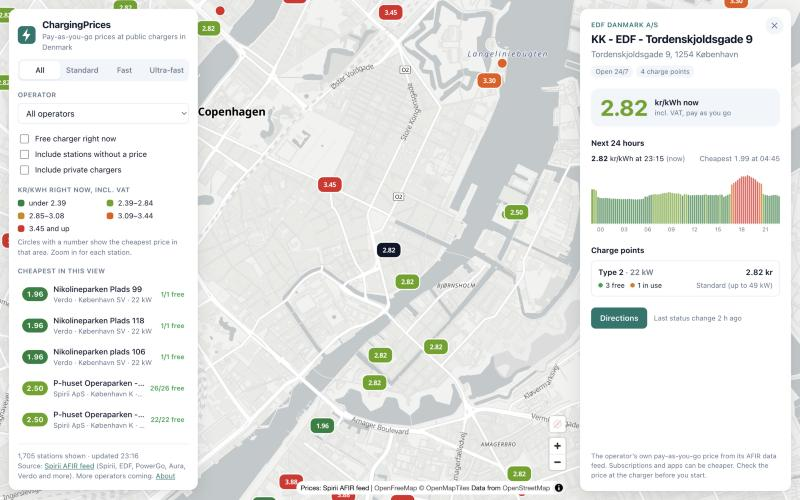
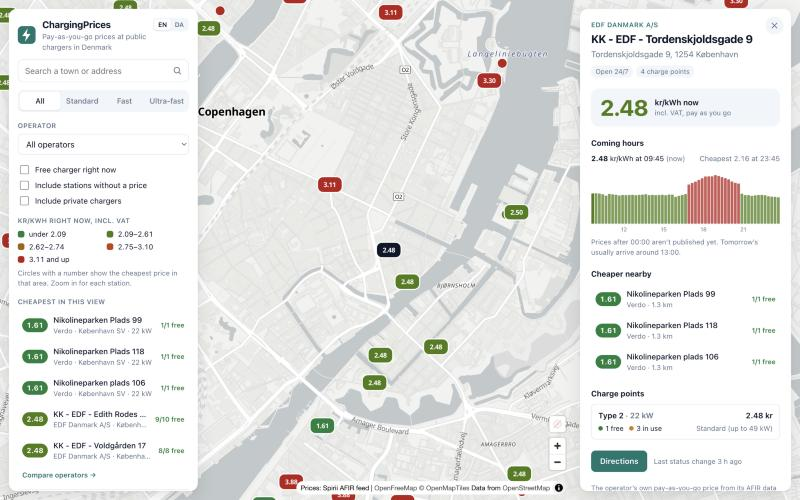
docs: update README, CLAUDE.md and data notes; add ADR 0005
- README: all current features, Docker instructions, the full API
  including place search and health, a new screenshot
- CLAUDE.md: layout with places/ and i18n/, Docker command, the
  published-horizon rule for price curves, translation rule, more
  Spring Boot 4 gotchas
- data-sources.md: fee windows and when tomorrow's prices arrive
- ADR 0005: place search through a back-end proxy to Nominatim

diff --git a/README.md b/README.md
@@ -4,9 +4,9 @@ A map of public EV charging stations in Denmark that shows what each one costs p
 
 ![CI](https://github.com/zipel/ChargingPrices/actions/workflows/ci.yml/badge.svg)
 
-> **Status:** phase 1 works locally. Live prices for about 2,300 sites from 21 operators, refreshed every 2 minutes. See the [roadmap](#roadmap).
+> **Status:** phase 1 works locally and in Docker. Live prices for about 2,300 sites from 21 operators, refreshed every 2 minutes. Not online yet. See the [roadmap](#roadmap).
 
-![The map, with the cheapest stations listed on the left and a station's 24-hour price curve on the right](docs/screenshot.png)
+![The map of Copenhagen with price labels, the cheapest stations listed on the left, and a station's price curve on the right](docs/screenshot.png)
 
 ## The problem
 
@@ -20,16 +20,26 @@ ChargingPrices reads those feeds, maps them into one common model and shows the 
 
 ## What it does
 
-- A map of Denmark with sites coloured by their current price per kWh, from cheapest (green) to most expensive (red). The colour bands follow today's actual spread of prices.
+**On the map**
+- Sites coloured by their current price per kWh, from cheapest (green) to most expensive (red). The colour bands follow today's actual spread of prices.
 - Clusters show the cheapest price in their area. From zoom level 11, every site shows its price as a label.
 - Filters for charging speed (standard, fast, ultra-fast), operator and "free charger right now".
+- Search for a town or an address.
 - A list of the five cheapest stations in the visible part of the map.
-- A station panel with the price now, a 24-hour price curve in 15-minute steps, each charge point's connector, power and live status, start fees and parking fees, and a link for directions.
+
+**For each station**
+- The price now, and a price curve for the coming hours in 15-minute steps. For dynamic prices the curve stops where the operator's published prices end; tomorrow's usually arrive around 13:00.
+- Up to three cheaper stations within 3 km.
+- Each charge point's connector, power and live status, plus start fees and parking fees with the times they apply.
+- A shareable link (`#site=...`) and a link for directions.
+
+**Also**
+- "Compare operators": operators ranked by their median price right now, at the selected charging speed.
+- English and Danish, including Danish number and time formats.
 - A mobile layout with collapsible filters and a bottom sheet.
+- Accessible colours (WCAG AA contrast on every price label), visible keyboard focus, and no map animations when the system asks for reduced motion.
 
-Prices are each operator's ad hoc price: pay as you go, VAT included. Subscriptions such as Clever One or Norlys member discounts can be cheaper and are out of scope.
-
-Sites whose name says they're private (e.g. "(Privat)", "Kun for beboere", "employee only") are hidden by default and can be shown with a filter.
+Prices are each operator's ad hoc price: pay as you go, VAT included. Subscriptions such as Clever One or Norlys member discounts can be cheaper and are out of scope. Sites whose name says they're private (e.g. "(Privat)", "Kun for beboere") are hidden by default.
 
 ## Data sources
 
@@ -60,7 +70,7 @@ cd backend
 ./gradlew bootRun
 ```
 
-On Windows, use `gradlew.bat bootRun`. The first full load of the feed takes about half a minute.
+On Windows, use `gradlew.bat bootRun`. The first full load of the feed takes about a minute.
 
 **2. The web app** (UI on <http://localhost:5173>):
 
@@ -72,6 +82,17 @@ npm run dev
 
 Then open <http://localhost:5173>. Vite forwards `/api` calls to the back end.
 
+### With Docker
+
+One image holds both: Spring Boot serves the built web app on port 8080.
+
+```bash
+docker build -t chargingprices .
+docker run -p 8080:8080 chargingprices
+```
+
+Then open <http://localhost:8080>.
+
 ### Tests
 
 ```bash
@@ -79,15 +100,17 @@ cd backend && ./gradlew test
 cd web && npm test
 ```
 
-The back-end tests run on a real three-site sample of the Spirii feed and never call the internet.
+The back-end tests run on a real three-site sample of the Spirii feed and never call the internet. CI also builds the Docker image and smoke-tests it.
 
 ## API
 
 | Endpoint | Returns |
 |---|---|
 | `GET /api/sites` | Every site with its current price, overall and per speed class |
-| `GET /api/sites/{id}` | One site: charge points, status, fees and the 24-hour price curve |
+| `GET /api/sites/{id}` | One site: charge points, status, fees and the price curve |
 | `GET /api/meta` | Operators, data sources and when the data was last refreshed |
+| `GET /api/places?q=...` | Towns and addresses in Denmark, via OpenStreetMap's Nominatim ([why a proxy](docs/decisions/0005-place-search.md)) |
+| `GET /actuator/health` | UP while the feed data is fresh, DOWN when it's older than 10 minutes |
 
 ## Architecture
 
@@ -97,8 +120,8 @@ Spirii AFIR feed (DATEX II, one request per operator, ETag caching)
         v
 DatexParser  -->  Site / ChargePoint / Tariff  -->  SiteStore (in memory)
                                                         |
-                                    REST API (Spring Boot), prices worked out per request
-                                                        |
+                    REST API (Spring Boot), prices worked out per request      Nominatim (place search,
+                                                        |                       cached, 1 request/second)
                                        Web app (React + MapLibre), filters in the browser
 ```
 
@@ -106,17 +129,17 @@ DatexParser  -->  Site / ChargePoint / Tariff  -->  SiteStore (in memory)
 
 - **Back end:** Java 25, Spring Boot 4.1, Gradle
 - **Storage:** in memory for phase 1 ([why](docs/decisions/0003-in-memory-snapshot.md)); PostgreSQL with PostGIS when price history arrives
+- **Front end:** React 19, TypeScript, Vite, MapLibre GL JS with [OpenFreeMap](https://openfreemap.org/) tiles ([why](docs/decisions/0004-map-tiles.md)), i18next
 - **Tests:** JUnit 5 and AssertJ on the back end, Vitest on the front end
-- **Front end:** React 19, TypeScript, Vite, MapLibre GL JS with [OpenFreeMap](https://openfreemap.org/) tiles ([why](docs/decisions/0004-map-tiles.md))
-- **CI:** GitHub Actions
+- **Delivery:** a Docker image, GitHub Actions CI
 
 All decisions are in [docs/decisions](docs/decisions).
 
 ## Roadmap
 
-1. ~~**One feed end to end.** Fetch the Spirii feed, keep it fresh, serve it through the API and show it on the map.~~ Done.
+1. ~~**One feed end to end.** Fetch the Spirii feed, keep it fresh, serve it through the API and show it on the map.~~ Done, with search, operator comparison, Danish and a Docker image on top.
 2. **More operators.** Add Monta, Eco-Movement and OK, plus E.ON if access is granted. Merge stations that appear in more than one feed, using their EVSE IDs.
-3. **Prices over time.** Keep price history in PostgreSQL, show "best time to charge today" and put a public demo online.
+3. **Online and over time.** Put a public demo online, keep price history in PostgreSQL and show "best time to charge today".
 4. **Later.** An assistant for questions like "cheapest charge on my way to Aarhus before 18:00", and a phone app (PWA first).
 
 ## How it's built
@@ -125,7 +148,7 @@ Built with [Claude Code](https://claude.com/claude-code) as a coding assistant. 
 
 ## Data, attribution and disclaimer
 
-The charging data belongs to the operators and is published under AFIR. Map data © OpenStreetMap contributors, tiles by OpenFreeMap and OpenMapTiles. ChargingPrices isn't affiliated with any operator. Prices can change at short notice, so always check the price at the charger or in the operator's app before you charge.
+The charging data belongs to the operators and is published under AFIR. Map data and place search © OpenStreetMap contributors, tiles by OpenFreeMap and OpenMapTiles. ChargingPrices isn't affiliated with any operator. Prices can change at short notice, so always check the price at the charger or in the operator's app before you charge.
 
 ## Licence
 

diff --git a/CLAUDE.md b/CLAUDE.md
@@ -22,7 +22,7 @@ Owner: Dimos Zikos (GitHub `zipel`). Dimos works in VS Code with Claude Code, on
 
 ## Stack
 
-Java 25, Spring Boot 4.1, Gradle (Kotlin DSL) · in-memory store for phase 1 (PostgreSQL + PostGIS later) · JUnit 5, AssertJ · React 19, TypeScript, Vite, MapLibre GL JS with OpenFreeMap tiles · Vitest · GitHub Actions. The reasons are in `docs/decisions/`.
+Java 25, Spring Boot 4.1, Gradle (Kotlin DSL) · in-memory store for phase 1 (PostgreSQL + PostGIS later) · JUnit 5, AssertJ · React 19, TypeScript, Vite, MapLibre GL JS with OpenFreeMap tiles, i18next (English and Danish) · Vitest · Docker · GitHub Actions. The reasons are in `docs/decisions/`.
 
 ## Layout
 
@@ -30,13 +30,17 @@ Java 25, Spring Boot 4.1, Gradle (Kotlin DSL) · in-memory store for phase 1 (Po
 backend/              Spring Boot app
   feed/spirii/        fetches Spirii's public AFIR feed per operator (cpoId), with ETags
   feed/datex/         maps DATEX II JSON to the domain model
-  domain/             Site, ChargePoint, Tariff (price at a given local time), SpeedClass
+  feed/               FeedStatus and the feed health check for /actuator/health
+  domain/             Site, ChargePoint, Tariff (price at a given local time), SpeedClass, SiteAccess
   store/              SiteStore: the latest snapshot, in memory
+  places/             place search through Nominatim (cache, 1 request/second)
   api/                REST controller and the JSON views
 web/                  React app
-  src/components/     MapView, FilterPanel, StationPanel, PriceChart
-  src/lib/            price colours and formatting, filtering
-docs/                 data sources, decisions (ADRs)
+  src/components/     MapView, FilterPanel, StationPanel, PriceChart, PlaceSearch, OperatorComparison
+  src/lib/            price colours and formatting, filtering, distances, operator stats
+  src/i18n/           en.ts and da.ts with every UI text
+docs/                 data sources, decisions (ADRs), the README screenshot
+Dockerfile            builds the web app into the Spring Boot jar; one image on port 8080
 ```
 
 ## Commands
@@ -47,6 +51,7 @@ docs/                 data sources, decisions (ADRs)
 | Back-end tests | `backend/` | `./gradlew test` |
 | Run the UI on :5173 | `web/` | `npm install`, then `npm run dev` |
 | Front-end tests, lint, build | `web/` | `npm test`, `npm run lint`, `npm run build` |
+| Everything in one image on :8080 | repo root | `docker build -t chargingprices .`, then `docker run -p 8080:8080 chargingprices` |
 
 The UI needs the API running. Vite forwards `/api` to `localhost:8080`.
 
@@ -56,11 +61,15 @@ The UI needs the API running. Vite forwards `/api` to `localhost:8080`.
 - **EVSE ID** (e.g. `DK.SPI.Z507*1`) is the stable key for a charge point across feeds.
 - **Price** = the ad hoc price, VAT included, in DKK. See the Javadoc on `Tariff` and `TariffParser` for how the time windows work.
 - **Spirii's feed** returns at most 1,000 sites per request, so it's fetched one operator (`cpoId`) at a time. The list is in `application.yml`.
+- **Dynamic prices are published about a day ahead.** The price curve stops where the published slots end; it never shows the fallback price as a forecast.
+- **UI texts:** every visible string goes in both `web/src/i18n/en.ts` and `da.ts`. The `Translations` type makes the build fail if Danish is missing a key, and `t('...')` keys are checked too.
 
 ## Gotchas (learned the hard way)
 
 - **Spring Boot 4 uses Jackson 3.** Packages are `tools.jackson.databind.*`, not `com.fasterxml.jackson.databind.*`, and `JsonNode` uses `isString()` and `stringValue()`.
-- **Spring Boot 4 has no `RestClient.Builder` bean** without the `spring-boot-starter-restclient` module. `SpiriiClient` builds its own with `RestClient.builder()`.
+- **Spring Boot 4 has no `RestClient.Builder` bean** without the `spring-boot-starter-restclient` module. `SpiriiClient` and `NominatimClient` build their own with `RestClient.builder()`.
+- **Spring Boot 4 moved the health API** to `org.springframework.boot.health.contributor` (`Health`, `HealthIndicator`, `Status`).
+- **Test slices moved too:** `@WebMvcTest` is in `org.springframework.boot.webmvc.test.autoconfigure`, and `MockMvcTester` gives AssertJ-style checks.
 - **Spirii always gzips**, even without `Accept-Encoding`. `SpiriiClient` checks the gzip magic bytes.
 - **MapLibre 6 needs its worker URL set** (`setWorkerUrl` with a `?url` import in `MapView.tsx`), or the map stays blank in production builds.
 - **MapLibre's CSS sets `.maplibregl-map { position: relative }`.** The full-screen rule for the map container must be more specific (`.app > .map`), or the map gets zero height.

diff --git a/docs/decisions/0005-place-search.md b/docs/decisions/0005-place-search.md
@@ -1,0 +1,30 @@
+# 5. Place search through a back-end proxy to Nominatim
+
+- **Status:** accepted
+- **Date:** 2026-10-23
+
+## Context
+
+People look for chargers near a town or an address, not near map coordinates, so the app needs a search box. The search must be free, need no account, and cover Danish addresses.
+
+## Decision
+
+Use OpenStreetMap's **Nominatim** geocoder, called by the back end (`GET /api/places?q=...`), never directly from the browser.
+
+Nominatim is free but has a [usage policy](https://operations.osmfoundation.org/policies/nominatim/): identify the app, send at most one request per second, and cache results. Going through the back end lets the app follow it:
+
+- `NominatimClient` sends a User-Agent with the app name and the repository URL, and limits results to Denmark.
+- `PlaceService` caches results (500 entries, least recently used dropped first) and lets one request through per second. At most 3 searches wait their turn; more get `429 Too Many Requests` rather than tying up server threads.
+- The UI searches when the user presses Enter, not on every keystroke.
+- Geocoder failures answer `503` and aren't cached.
+
+## Alternatives considered
+
+- **Calling Nominatim from the browser.** Simpler, but every visitor would hit Nominatim directly, with no shared cache and no rate limit.
+- **A Danish address API (DAWA or the Datafordeler).** Very good for addresses, but weaker for towns and places, so the app would still need a second service.
+- **Google Places or Mapbox search.** Need an account, an API key and a billing setup (see [0004](0004-map-tiles.md)).
+
+## Consequences
+
+- Search results credit OpenStreetMap through the map's attribution, which is already shown.
+- If the app ever gets real traffic, Nominatim's public server won't be enough. A self-hosted Nominatim or a paid geocoder can replace `NominatimClient` behind the `PlaceLookup` interface.

diff --git a/docs/data-sources.md b/docs/data-sources.md
@@ -101,7 +101,8 @@ The parser and its rules are in `TariffParser` and `Tariff`, with tests on a rea
 - About a quarter of the sites publish no price at all. The map hides these sites unless "Include stations without a price" is ticked.
 - 12 sites publish a price of 0. They are mostly company chargers (e.g. "FedEx Express Danmark ApS"), so they are never ranked as cheapest.
 - About 60 sites say in their name that they aren't public: "(Privat)", "Kun for beboere", "employee only", "Bag lukket hegn". The API flags them (`restricted`) and the map hides them by default.
-- Per-minute fees can have their own time window (e.g. parking fees only 06:00–18:00). The app shows the fee but not yet its window.
+- Per-minute fees can have their own time window and weekdays (e.g. parking fees only Mon–Fri 06:00–17:00). The station panel shows them.
+- Dynamic prices are published from the current slot to about the same time tomorrow, and the next day's prices arrive around 13:00. Before that, the price curve ends at midnight.
 - Some connectors have `maxPowerAtSocket: 0` or an unknown connector type.
 
 ## Monta platform
@@ -126,4 +127,4 @@ The parser and its rules are in `TariffParser` and `Tariff`, with tests on a rea
 - [ ] Tesla Superchargers: no Danish NAP dataset found yet.
 - [ ] Duplicates: Shell Recharge appears in both the Spirii and Eco-Movement feeds. Merge on EVSE ID and decide which source wins.
 - [x] Price model: start fees and per-minute fees are listed under each charge point in the station panel.
-- [ ] Show the time window of per-minute fees.
+- [x] Show the time window of per-minute fees.
